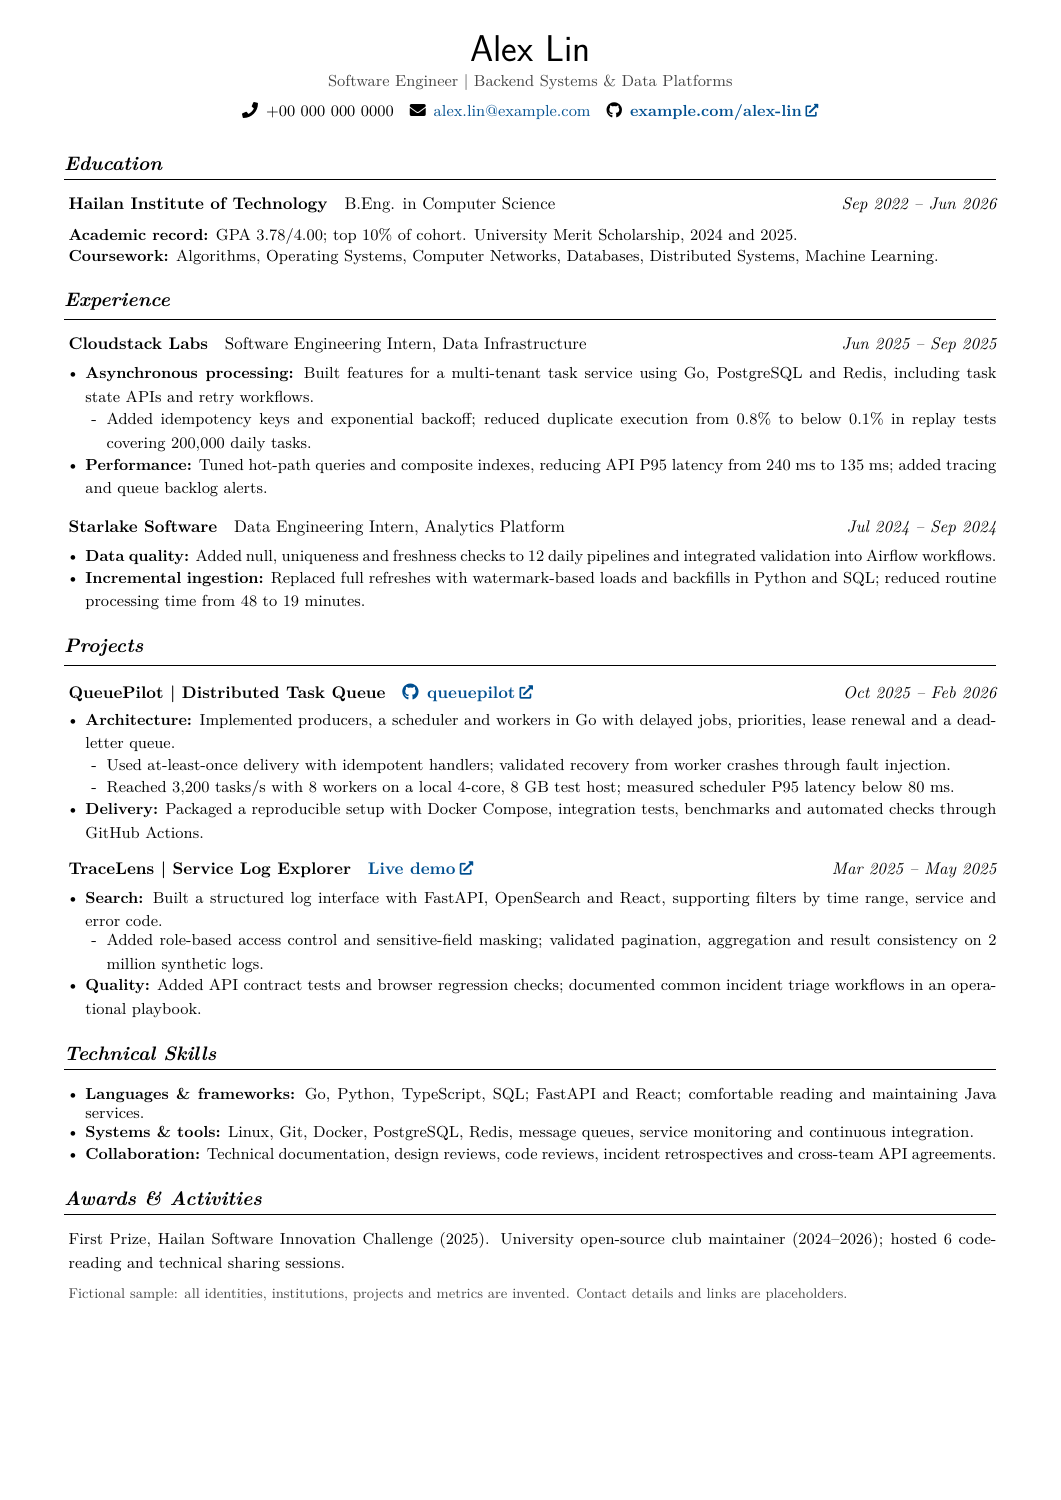
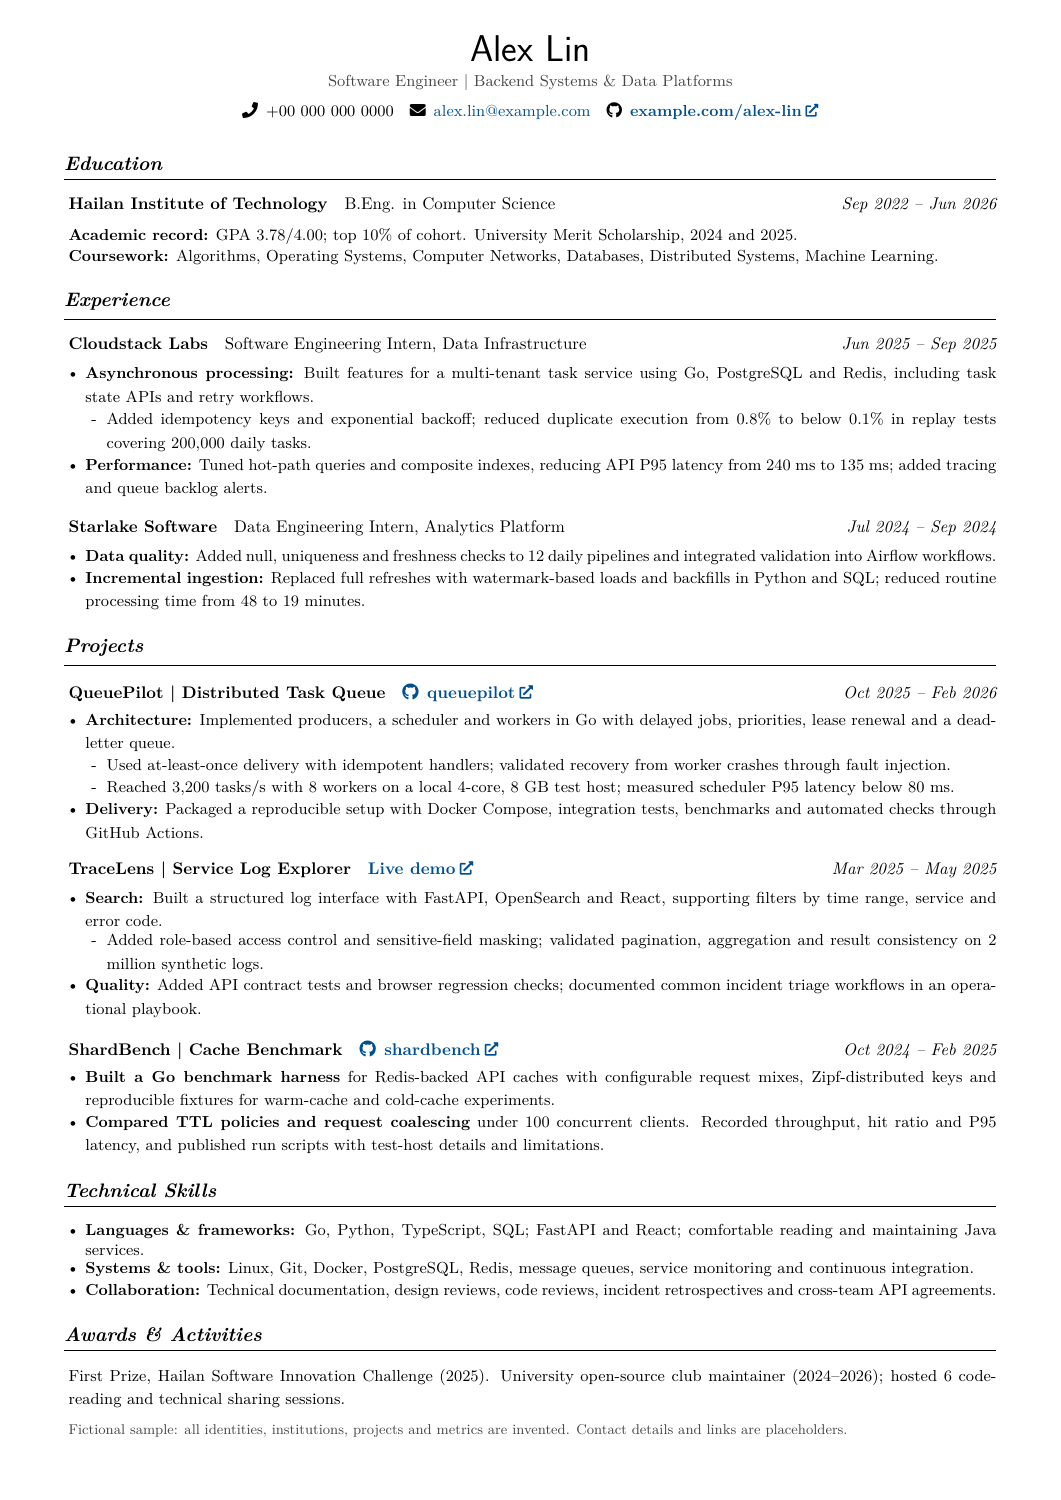
Fill English sample and version README preview URLs

Changed region(s): [[0.0622, 0.6747, 0.9331, 0.9507], [0.8398, 0.8893, 0.8709, 0.92]]

diff --git a/content-en.tex b/content-en.tex
@@ -28,6 +28,11 @@
 \ResumeSubItem{Added role-based access control and sensitive-field masking; validated pagination, aggregation and result consistency on 2 million synthetic logs.}
 \ResumeItem{\textbf{Quality:} Added API contract tests and browser regression checks; documented common incident triage workflows in an operational playbook.}
 
+\ProjectGap
+\ResumeEntry{\textbf{ShardBench | Cache Benchmark}\quad \ProjectLink{https://example.com/code/shardbench}{shardbench}}{Oct 2024 -- Feb 2025}
+\ResumeItem{\textbf{Built a Go benchmark harness} for Redis-backed API caches with configurable request mixes, Zipf-distributed keys and reproducible fixtures for warm-cache and cold-cache experiments.}
+\ResumeItem{\textbf{Compared TTL policies and request coalescing} under 100 concurrent clients. Recorded throughput, hit ratio and P95 latency, and published run scripts with test-host details and limitations.}
+
 \SectionGap
 \ResumeSection{\textit{Technical Skills}}
 \begingroup\CompactItems

diff --git a/README.md b/README.md
@@ -14,12 +14,12 @@
   <tr>
     <td width="50%" align="center">
       <h3>English sample</h3>
-      <a href="resume-en.pdf"><img src="preview-en.png" alt="English resume" width="100%" /></a>
+      <a href="resume-en.pdf"><img src="preview-en.png?v=85a77772042c" alt="English resume" width="100%" /></a>
       <p><a href="resume-en.pdf">View PDF</a></p>
     </td>
     <td width="50%" align="center">
       <h3>Chinese sample</h3>
-      <a href="resume-zh.pdf"><img src="preview-zh.png" alt="中文简历" width="100%" /></a>
+      <a href="resume-zh.pdf"><img src="preview-zh.png?v=36a5d72a105a" alt="中文简历" width="100%" /></a>
       <p><a href="resume-zh.pdf">View PDF</a></p>
     </td>
   </tr>

diff --git a/README.zh-CN.md b/README.zh-CN.md
@@ -14,12 +14,12 @@
   <tr>
     <td width="50%" align="center">
       <h3>中文样板</h3>
-      <a href="resume-zh.pdf"><img src="preview-zh.png" alt="中文简历" width="100%" /></a>
+      <a href="resume-zh.pdf"><img src="preview-zh.png?v=36a5d72a105a" alt="中文简历" width="100%" /></a>
       <p><a href="resume-zh.pdf">查看 PDF</a></p>
     </td>
     <td width="50%" align="center">
       <h3>英文样板</h3>
-      <a href="resume-en.pdf"><img src="preview-en.png" alt="English resume" width="100%" /></a>
+      <a href="resume-en.pdf"><img src="preview-en.png?v=85a77772042c" alt="English resume" width="100%" /></a>
       <p><a href="resume-en.pdf">查看 PDF</a></p>
     </td>
   </tr>
